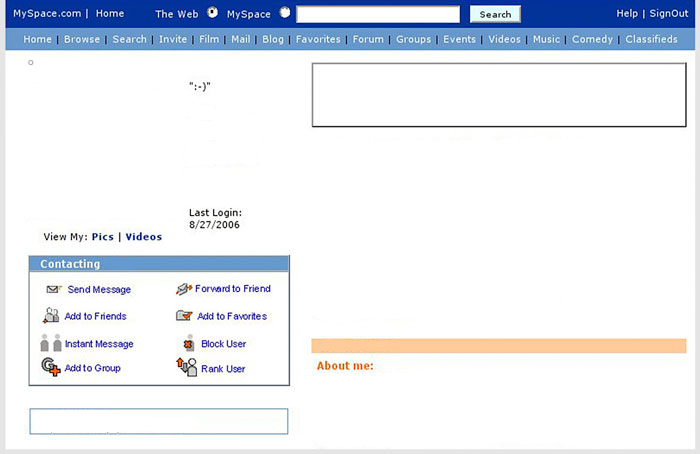
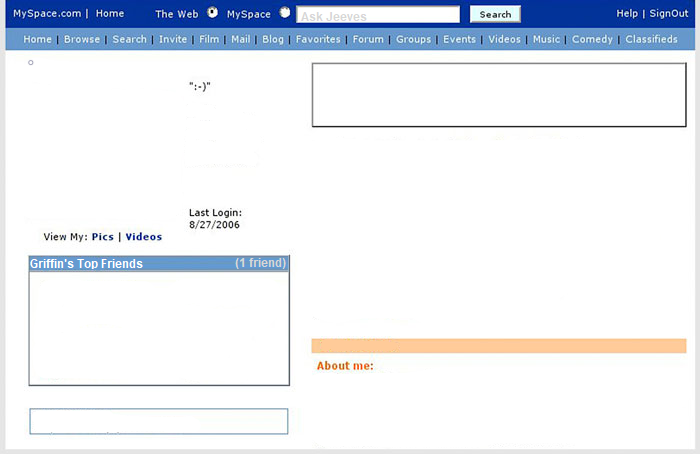
Finished Version

diff --git a/index.html b/index.html
@@ -8,7 +8,7 @@
     <div class="testDiv">
         <h2>I officially welcome you to Griffin's about me page!! This place rules!</h2>
         <ol>
-            <p>Links to my other places</p>
+            <p><pre>      Links to my other places</pre></p>
             <li><a href="https://github.com/GriffinSwain">My Github</a></li>
             <li><a href="https://www.instagram.com/griffinparker_/">My Instagram</a></li>
             <li><a href="https://steamcommunity.com/id/GourmetSwain"> My Steam Account</a></li>
@@ -17,7 +17,7 @@
     </div>
 
     <div class="linkDiv"> 
-            <ol>@GSwain#7365 on discord</ol>
+            <ol>GSwain#7365 on discord</ol>
             <ol>GParker@codestack.co</ol>
     </div>
     
@@ -39,6 +39,16 @@
 
     <div class="about2Div">
         <h4>I love to sing, play videogames, and read! I have a baby boy who is almost a year old! He's great!</h4>
+    </div>
+
+    <div class ="tomPicDiv">
+        <img src="Images/MySpaceTom.png" width="40">
+    </div>
+
+    <div class = "friendsDiv">
+        <ol>
+        <li><pre>       Tom</pre></li>
+        </ol>
     </div>
 
 

diff --git a/CSS/styles.css b/CSS/styles.css
@@ -68,12 +68,32 @@ body
     margin-right:580;
 }
 
+.tomPicDiv{
+    position: absolute; 
+    top:285px;  
+    margin-left:55; 
+    margin-right:580;
+}
+
+.friendsDiv{
+    position: absolute; 
+    top:278px;  
+    margin-left:15; 
+    margin-right:580; 
+}
+
 .zomboDiv{
     position: absolute; 
     top:400px;  
     margin-left:43; 
     margin-right:580; 
 }
+
+
+
+
+
+
 ol {
     color:darkcyan;
     font-family: 'Trebuchet MS', 'Lucida Sans Unicode', 'Lucida Grande', 'Lucida Sans', Arial, sans-serif;
